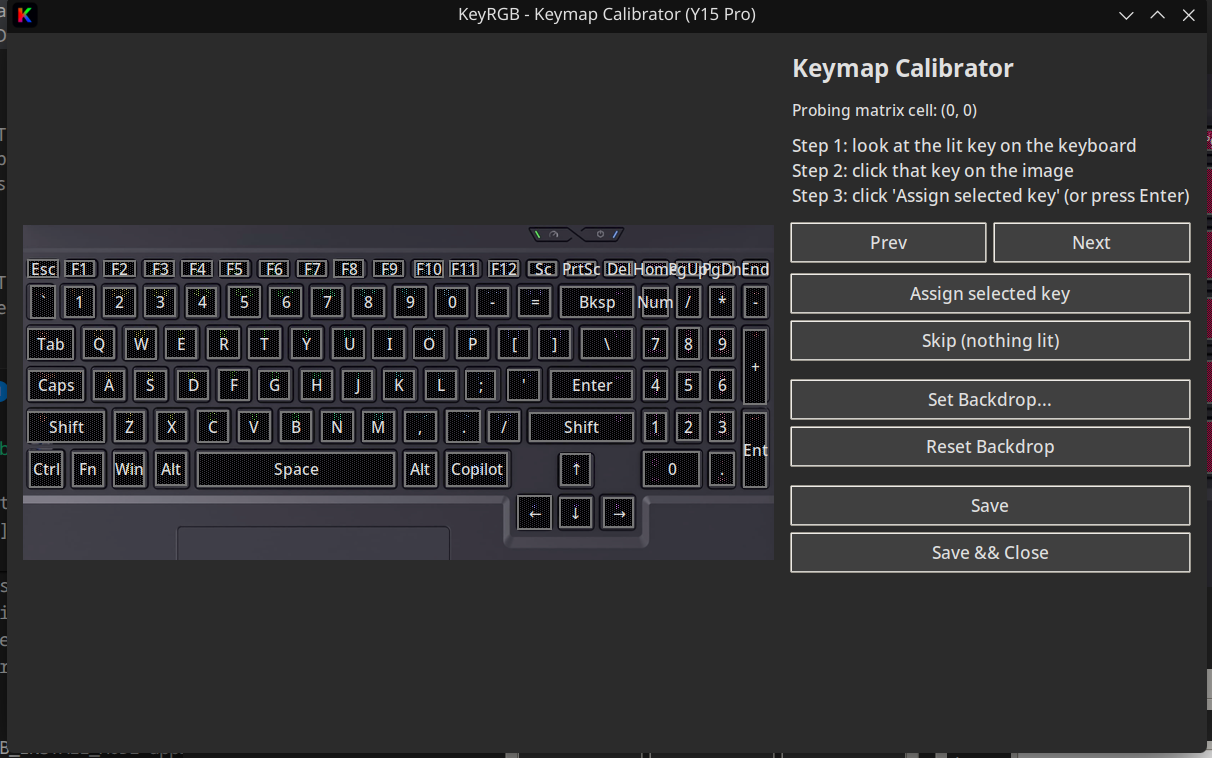
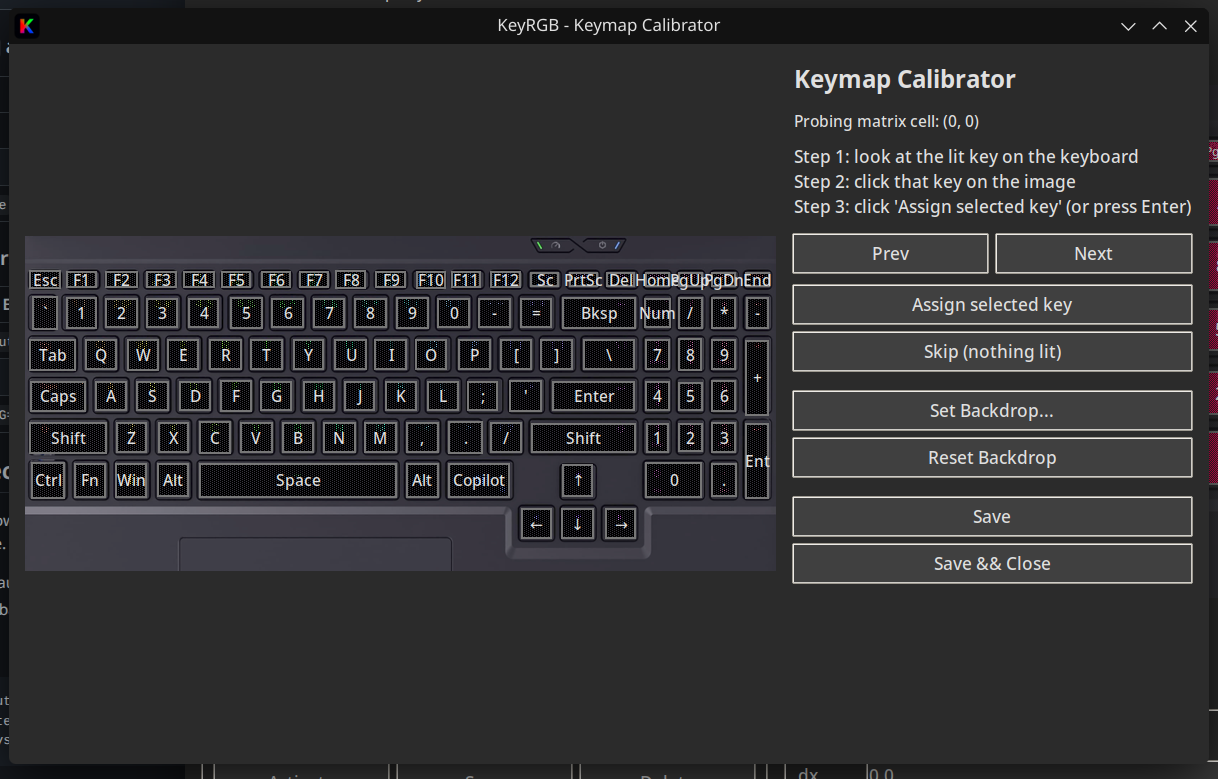
Update screenshots and README

diff --git a/README.md b/README.md
@@ -1,290 +1,160 @@
 # KeyRGB
 
-KeyRGB is a Linux tray app + per-key editor for laptop keyboard lighting.
+KeyRGB is a lightweight Linux tray app and per-key editor for laptop keyboard lighting. It serves as a practical, focused alternative to OpenRGB for supported devices.
 
-It supports multiple backends:
+## Supported backends
 
-- **USB (ITE 8291 / ITE8291R3 family)** on many TongFang rebrands (often per-key RGB).
-- **Sysfs LED backlight devices** (brightness-only or RGB, depending on what your kernel exposes).
-
-If OpenRGB doesn’t support your device (or is painful to operate), KeyRGB aims to be a practical alternative.
+- **USB (ITE 8291 / 8291R3 family)**: common on TongFang rebrands (XMG, Tuxedo, Wootbook, Eluktronics). Supports per-key RGB.
+- **Sysfs LED**: universal Linux backend (brightness-only or basic RGB, depending on kernel drivers).
 
 ## Status
 
-- **Beta project**: versioning follows **0.x.y** tags until the first stable release.
-- **Linux-only**: primarily developed/tested on Fedora-family distros (Fedora / Nobara).
-- **Hardware-specific**: support depends on your keyboard controller + firmware.
-- **Per-key requires calibration**: you must build a keymap before per-key effects work.
+- **Beta**: versioning follows **0.x.y**.
+- Developed primarily for Fedora / Nobara.
+- Support depends entirely on your specific keyboard controller and firmware.
 
 ## Screenshots
 
-![Tray menu (effects)](assets/screenshots/trayeffects.png)
-
-![Tray menu (power)](assets/screenshots/traypp.png)
-
-![Settings](assets/screenshots/settings.png)
-
-![Per-key editor](assets/screenshots/perkeyux.png)
+<table>
+	<tr>
+		<td width="50%">
+			<b>Tray Menu (Effects)</b><br>
+			<img src="assets/screenshots/trayeffects.png" alt="Tray menu effects">
+		</td>
+		<td width="50%">
+			<b>Power Management</b><br>
+			<img src="assets/screenshots/traypp.png" alt="Tray power menu">
+		</td>
+	</tr>
+	<tr>
+		<td width="50%">
+			<b>Per-Key Editor</b><br>
+			<img src="assets/screenshots/perkeyux.png" alt="Per-key editor">
+		</td>
+		<td width="50%">
+			<b>Settings</b><br>
+			<img src="assets/screenshots/settings.png" alt="Settings UI">
+		</td>
+	</tr>
+</table>
 
 ## Quickstart
 
 ### Install
 
-On Fedora (including Nobara), the recommended path is:
+On Fedora / Nobara (recommended):
 
 ```bash
 ./install.sh
 ```
 
-The installer:
-
-- Can be run from any working directory (it switches to the repo root internally).
-- Installs a desktop launcher + autostart entry.
-- Installs the udev rule for USB devices (asks for sudo).
-
-Default mode (**recommended**) installs the AppImage to `~/.local/bin/keyrgb`.
+This installs the AppImage to `~/.local/bin/keyrgb`, sets up the desktop launcher, and installs necessary udev rules for hardware access.
 
 Docs:
 
-- Fedora / step-by-step from a blank install: [docs/usage/usage.md](docs/usage/usage.md)
-- Tongfang keyboard support roadmap: [docs/architecture/tongfang/00-index.md](docs/architecture/tongfang/00-index.md)
-
-On other distros, install the runtime deps + ensure the udev rule is present (see the docs above).
+- Step-by-step from a blank install: [docs/usage/usage.md](docs/usage/usage.md)
+- Architecture / TongFang support roadmap: [docs/architecture/tongfang/00-index.md](docs/architecture/tongfang/00-index.md)
 
 ### Uninstall
 
-If you installed via `./install.sh`, you can remove the user install with:
-
 ```bash
+# Interactive removal
 ./uninstall.sh
-```
 
-If you installed the AppImage (default), this will prompt to remove `~/.local/bin/keyrgb`.
-For non-interactive removal:
-
-```bash
+# Non-interactive (scripted)
 ./uninstall.sh --yes --remove-appimage
 ```
 
 ### Run
 
-Start the tray app:
-
-```bash
-keyrgb
-```
-
-Dev/repo mode (runs attached to your terminal):
-
-```bash
-./keyrgb
-```
-
-Open the per-key editor:
-
-```bash
-keyrgb-perkey
-```
-
-Run diagnostics (for bug reports):
-
-```bash
-keyrgb-diagnostics
-```
-
-## Commands and arguments
-
-### Commands
-
-| Command | What it does |
+| Command | Description |
 | --- | --- |
-| `keyrgb` | Start the tray app. |
+| `keyrgb` | Start the tray app (background). |
+| `./keyrgb` | Run attached to terminal (dev mode). |
 | `keyrgb-perkey` | Open the per-key editor. |
-| `keyrgb-uniform` | Open the uniform color UI. |
-| `keyrgb-calibrate` | Launch the keymap calibrator UI. |
-| `keyrgb-diagnostics` | Print diagnostics JSON to stdout. |
-| `./install.sh` | Install KeyRGB (AppImage/clone/pip). |
-| `./uninstall.sh` | Remove a KeyRGB install created by `install.sh`. |
+| `keyrgb-diagnostics` | Print hardware diagnostics JSON. |
 
-### `install.sh` arguments
+## Configuration
 
-| Argument | Meaning |
-| --- | --- |
-| `--appimage` | Install by downloading the AppImage (default). |
-| `--pip` | Install from the current repo via `pip --user` (editable/dev). |
-| `--clone` | Clone the repo, then install via `pip --user -e` (for local modifications). |
-| `--clone-dir <path>` | Where to clone when using `--clone` (default: `~/.local/share/keyrgb-src`). |
-| `--version <tag>` | Download a specific Git tag (e.g. `v0.9.2`). |
-| `--asset <name>` | AppImage asset filename (default: `keyrgb-x86_64.AppImage`). |
-| `--prerelease` | Allow auto-resolving a prerelease when it contains the newest matching AppImage (useful for debugging). |
+### Settings and autostart
 
-### `install.sh` env vars
+Access **Settings** via the tray menu to configure:
 
-| Env var | Meaning |
-| --- | --- |
-| `KEYRGB_INSTALL_MODE=appimage\|clone\|pip` | Non-interactive install-mode selection. |
-| `KEYRGB_CLONE_DIR=<path>` | Clone target for `--clone`. |
-| `KEYRGB_ALLOW_PRERELEASE=y\|n` | Allow prereleases when auto-resolving the AppImage tag (default: `n`). |
-| `KEYRGB_INSTALL_POWER_HELPER=y\|n` | Install the lightweight Power Mode helper + polkit rule. |
-| `KEYRGB_INSTALL_TUXEDO=y\|n` | Enable TCC integration deps (mutually exclusive with power helper). |
-| `KEYRGB_INSTALL_TCC_APP=y\|n` | If TCC integration is selected, also attempt `dnf install tuxedo-control-center` (best-effort). |
+- **Power Management**: toggle LEDs on Suspend/Resume or Lid Close/Open.
+- **Screen Dim Sync**: sync keyboard brightness with screen dimming (KDE Plasma / Wayland).
+- **Autostart**: enable “Start KeyRGB on login”.
 
-### `uninstall.sh` arguments
+### Profiles
 
-| Argument | Meaning |
-| --- | --- |
-| `--yes` | Don’t prompt (best-effort). |
-| `--purge-config` | Also remove `~/.config/keyrgb`. |
-| `--remove-appimage` | Remove `~/.local/bin/keyrgb` if it looks like an AppImage. |
+Profiles are stored in:
 
-### Runtime env vars
+`~/.config/keyrgb/profiles/`
 
-| Env var | Meaning |
-| --- | --- |
-| `KEYRGB_BACKEND=auto\|ite8291r3\|sysfs-leds` | Force a specific backend (default: auto-detect). |
-| `KEYRGB_DEBUG=1` | Enable verbose debug logging. |
-| `KEYRGB_TK_SCALING=<float>` | Override Tk scaling (useful for DPI/layout quirks). |
+Each profile contains the keymap (calibration), global overlay tweaks, and per-key color data. Manage these via the Per-Key Editor.
 
-## Backend selection (multi-vendor)
+### Per-key calibration
 
-KeyRGB is moving toward a multi-backend architecture so additional keyboard controllers/vendors can be supported over time.
+Most supported controllers use a fixed LED matrix (e.g., 6×21). To map this to your physical layout:
 
-- Auto select (default): no env vars needed.
-- Force a specific backend: set `KEYRGB_BACKEND`.
-
-Examples:
-
-```bash
-KEYRGB_BACKEND=auto keyrgb
-KEYRGB_BACKEND=ite8291r3 keyrgb
-KEYRGB_BACKEND=sysfs-leds keyrgb
-```
-
-Notes:
-
-- Today, `ite8291r3` is the primary backend.
-- If no backend is available, the tray/GUI should still launch (you’ll just have no hardware control).
-
-## How per-key works
-
-Most of these controllers expose a fixed LED matrix (often 6×21). The physical key at `(row, col)` is device-specific.
-
-KeyRGB solves this by calibration:
-
-1. Run the calibrator.
-2. It lights one matrix cell at a time.
-3. You click the corresponding key on the on-screen image.
+1. Open `keyrgb-perkey`.
+2. Click **Run Keymap Calibrator**.
+3. Click the corresponding key on-screen as each physical LED lights up.
 4. Save the keymap.
-
-After calibration, the per-key editor and effects use that mapping.
-
-## Profiles
-
-Profiles live under:
-
-`~/.config/keyrgb/profiles/<profile>/`
-
-Each profile groups:
-
-- The keymap
-- Global overlay alignment tweaks
-- Per-key overlay tweaks
-- Per-key colors
-
-Use the **Profiles** section in the per-key editor to Activate/Save/Delete.
-
-## Hardware support
-
-KeyRGB supports multiple keyboard backlight backends.
-
-Common examples:
-
-- USB (ITE): typical USB IDs include `048d:600b`, `048d:6008`, `048d:6006`, etc.
-- Sysfs LED: looks for common `/sys/class/leds/*kbd*` patterns; capabilities vary by device.
-
-Support is device/firmware dependent. If you want to contribute a new laptop revision, see [CONTRIBUTING.md](CONTRIBUTING.md).
 
 ## Troubleshooting
 
-- **No tray icon / nothing happens**: run `keyrgb` from a terminal and check logs.
-- **Permission denied / cannot open device**: ensure the udev rule is installed and replug/reboot.
-- **Effects “fight” or flicker**: stop other RGB tools (`openrgb`, Tuxedo tools) so there is a single owner.
-- **Per-key does nothing**: you need a keymap. Open `keyrgb-perkey` and click **Run Keymap Calibrator**.
+| Issue | Solution |
+| --- | --- |
+| No tray icon | Run `keyrgb` from a terminal to see errors. Check if the system tray extension is enabled (GNOME). |
+| Permission denied | Ensure udev rules are installed. Try replugging the device or rebooting. |
+| Flickering effects | Ensure other tools (OpenRGB, TCC) are not running. KeyRGB needs exclusive access. |
+| Per-key not working | You likely need to run the Keymap Calibrator first. |
 
-## Settings
+## Advanced usage
 
-The tray menu includes a **Settings** entry which opens a small GUI for:
+### Installer arguments
 
-- **Power Management**: turn keyboard LEDs off/on on suspend/resume and lid close/open.
-- **Screen Dim Sync** (KDE Plasma / Wayland): sync keyboard lighting to screen dimming; can either turn off or dim to a temporary brightness, and will turn off when the screen is powered off.
-- **Autostart**:
-	- **Start lighting on launch** (KeyRGB behavior at startup)
-	- **Start KeyRGB on login** (OS session autostart via `~/.config/autostart/keyrgb.desktop`)
+| Argument | Meaning |
+| --- | --- |
+| `--appimage` | Download AppImage (default). |
+| `--pip` | Install via `pip --user` (dev/editable). |
+| `--clone` | Clone repo and install via pip (source). |
+| `--version <tag>` | Install specific tag (e.g. `v0.9.2`). |
 
-If you quit the tray during a session, you can re-open it from your desktop app menu by searching for **KeyRGB**.
+### Environment variables
 
-## Getting your hardware supported
+| Variable | Usage |
+| --- | --- |
+| `KEYRGB_BACKEND` | Force backend: `auto` (default), `ite8291r3`, or `sysfs-leds`. |
+| `KEYRGB_DEBUG=1` | Enable verbose debug logging for bug reports. |
+| `KEYRGB_TK_SCALING` | Float override for UI scaling (fixes High-DPI quirks). |
 
-If KeyRGB doesn’t control your keyboard yet (or behaves oddly), please open a GitHub issue and include the information below.
-This is the fastest way to let us map your laptop revision to the right backend/quirks.
+## Hardware support and contributing
 
-Open an issue here:
+If KeyRGB detects your device but behaves oddly, or if you have a new laptop model (TongFang/Clevo/etc.), please help us support it.
 
-- [GitHub Issues (new issue)](../../issues/new/choose)
-
-Choose **Hardware support / diagnostics** for new laptop models, or **Bug report** for problems on already-supported hardware.
-
-### 1) Run diagnostics
-
-Run:
+1) Run diagnostics:
 
 ```bash
 keyrgb-diagnostics
 ```
 
-Paste the full JSON output into the issue.
+2) Open an issue:
 
-What it includes (read-only):
+- https://github.com/Rainexn0b/keyRGB/issues/new/choose
 
-- DMI identity (`sys_vendor`, `product_name`, `board_name`)
-- Candidate sysfs LED nodes (keyboard backlight paths)
-- USB IDs (best-effort enumeration)
+Select **Hardware support / diagnostics** and paste the JSON output from step 1.
 
-### 2) Run KeyRGB with debug logs
+3) Include details:
 
-```bash
-KEYRGB_DEBUG=1 keyrgb
-```
-
-Then:
-
-- Describe what you clicked (tray menu items, GUI actions)
-- Paste any errors/warnings from the terminal
-
-### 3) If USB is involved, also paste this
-
-```bash
-lsusb | grep -i "048d:" || true
-```
-
-### 4) What to mention in plain English
-
-- Laptop brand + model name you bought (e.g. WootBook / Tuxedo / XMG)
-- What works vs what doesn’t (brightness, effects, per-key)
-- Any quirks (e.g. “after resume it switches to rainbow and ignores settings”)
+- Laptop model (e.g., XMG Core 15, Tuxedo InfinityBook)
+- USB ID (run `lsusb | grep -i "048d:"`)
+- Description of what works vs. what fails
 
 ### Privacy note
 
-`keyrgb-diagnostics` does not include usernames or home directory paths.
-If you still prefer to redact, you can replace DMI values with `REDACTED` while keeping their *presence* and structure.
-
-More troubleshooting and setup details are in [docs/usage/usage.md](docs/usage/usage.md).
-
-## Optional dependencies
-
-- `PyQt6` is used for optional slider dialogs in the tray UI. KeyRGB still runs without it.
-	- Install it with `python3 -m pip install --user "PyQt6>=6.10.0"` or `python3 -m pip install --user -e ".[qt]"`.
+`keyrgb-diagnostics` attempts to sanitize output, but please review the JSON before posting to ensure no personal paths/names are included.
 
 ## License
 
-GPL-2.0-or-later. See [LICENSE](LICENSE).
+GPL-2.0-or-later.
